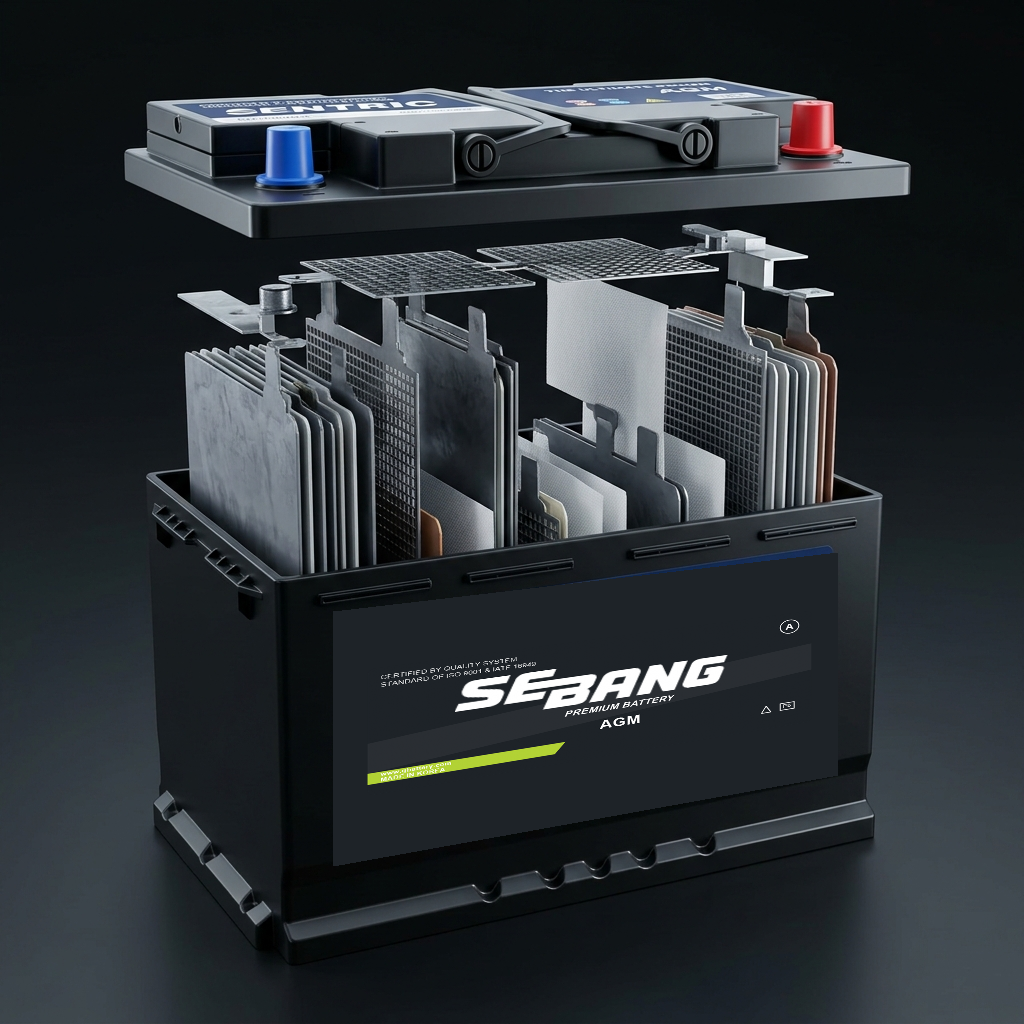
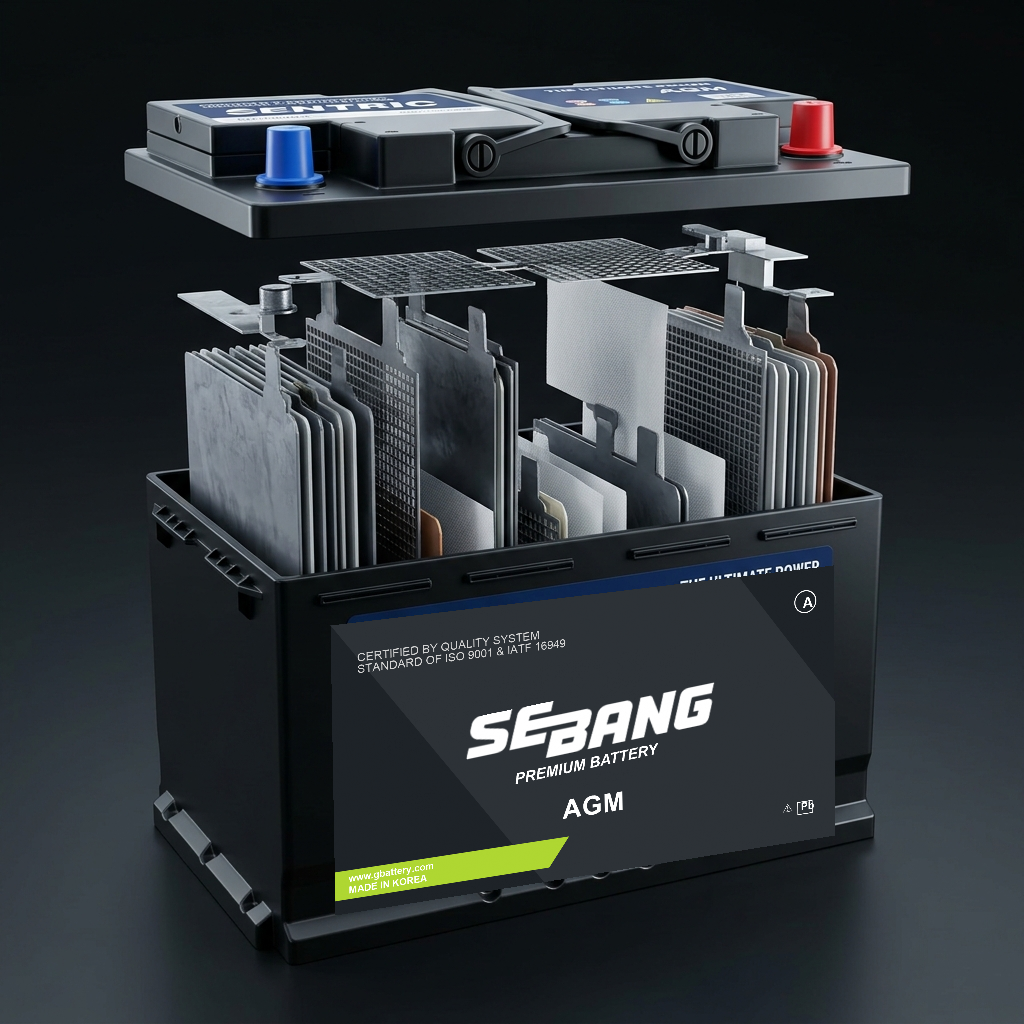
fix: replace inner-sticker coordinates with full-bleed giant recess coordinates and project new 1800x1000 full-bleed label to perfectly mask original elements

Changed region(s): [[0.3125, 0.5938, 0.8125, 0.9062], [0.4375, 0.5312, 0.8125, 0.5938]]

diff --git a/index.html b/index.html
@@ -6,7 +6,7 @@
     <title>Sentric | Her Yolculukta Güvenilir Güç</title>
     <meta name="description" content="Sentric, en zorlu koşullarda bile her yolculuğunuzda güvenilir, yüksek performanslı ve uzun ömürlü otomotiv aküleri sunar.">
     <link rel="stylesheet" href="style.css?v=20260620d">
-    <link rel="stylesheet" href="css-battery.css?v=11">
+    <link rel="stylesheet" href="css-battery.css?v=12">
     <link href="https://fonts.googleapis.com/css2?family=Inter:wght@300;400;600;800&family=Outfit:wght@400;600;800&display=swap" rel="stylesheet">
     <link rel="stylesheet" href="https://cdnjs.cloudflare.com/ajax/libs/font-awesome/6.4.0/css/all.min.css">
 </head>
@@ -98,7 +98,7 @@
                 </div>
                 <div class="about-image slide-in-right">
                     <div class="image-wrapper glassmorphism">
-                        <img src="assets/battery_sebang_final.png?v=11" alt="Seabang Premium" class="floating">
+                        <img src="assets/battery_sebang_final.png?v=12" alt="Seabang Premium" class="floating">
                     </div>
                 </div>
             </div>
@@ -120,7 +120,7 @@
                     <!-- Tüm Aküler -->
                     <a href="#products" class="sebang-card glassmorphism fade-in-up" draggable="false" style="text-decoration:none;">
                         <div class="sebang-img-wrapper">
-                            <img src="assets/battery_sebang_final.png?v=11" alt="Tüm Aküler" class="battery-base" style="width: 100%; height: auto;">
+                            <img src="assets/battery_sebang_final.png?v=12" alt="Tüm Aküler" class="battery-base" style="width: 100%; height: auto;">
                         </div>
                         <div class="sebang-card-content">
                             <div class="sebang-info">
@@ -134,7 +134,7 @@
                     <!-- Otomotiv -->
                     <a href="#products" class="sebang-card glassmorphism fade-in-up" draggable="false" style="transition-delay: 0.1s; text-decoration:none;">
                         <div class="sebang-img-wrapper">
-                            <img src="assets/battery_sebang_final.png?v=11" alt="Otomotiv Aküleri" class="battery-base" style="width: 100%; height: auto;">
+                            <img src="assets/battery_sebang_final.png?v=12" alt="Otomotiv Aküleri" class="battery-base" style="width: 100%; height: auto;">
                         </div>
                         <div class="sebang-card-content">
                             <div class="sebang-info">
@@ -148,7 +148,7 @@
                     <!-- Ticari -->
                     <a href="#products" class="sebang-card glassmorphism fade-in-up" draggable="false" style="transition-delay: 0.2s; text-decoration:none;">
                         <div class="sebang-img-wrapper">
-                            <img src="assets/battery_sebang_final.png?v=11" alt="Ticari Araç Aküleri" class="battery-base" style="width: 100%; height: auto;">
+                            <img src="assets/battery_sebang_final.png?v=12" alt="Ticari Araç Aküleri" class="battery-base" style="width: 100%; height: auto;">
                         </div>
                         <div class="sebang-card-content">
                             <div class="sebang-info">
@@ -162,7 +162,7 @@
                     <!-- Marin ve Karavan -->
                     <a href="#products" class="sebang-card glassmorphism fade-in-up" draggable="false" style="transition-delay: 0.3s; text-decoration:none;">
                         <div class="sebang-img-wrapper">
-                            <img src="assets/battery_sebang_final.png?v=11" alt="Marin ve Karavan Aküleri" class="battery-base" style="width: 100%; height: auto;">
+                            <img src="assets/battery_sebang_final.png?v=12" alt="Marin ve Karavan Aküleri" class="battery-base" style="width: 100%; height: auto;">
                         </div>
                         <div class="sebang-card-content">
                             <div class="sebang-info">
@@ -176,7 +176,7 @@
                     <!-- Bahçe ve Tarım -->
                     <a href="#products" class="sebang-card glassmorphism fade-in-up" draggable="false" style="transition-delay: 0.4s; text-decoration:none;">
                         <div class="sebang-img-wrapper">
-                            <img src="assets/battery_sebang_final.png?v=11" alt="Bahçe ve Tarım Aküleri" class="battery-base" style="width: 100%; height: auto;">
+                            <img src="assets/battery_sebang_final.png?v=12" alt="Bahçe ve Tarım Aküleri" class="battery-base" style="width: 100%; height: auto;">
                         </div>
                         <div class="sebang-card-content">
                             <div class="sebang-info">
@@ -190,7 +190,7 @@
                     <!-- Traksiyoner -->
                     <a href="#products" class="sebang-card glassmorphism fade-in-up" draggable="false" style="transition-delay: 0.5s; text-decoration:none;">
                         <div class="sebang-img-wrapper">
-                            <img src="assets/battery_sebang_final.png?v=11" alt="Traksiyoner Aküler" class="battery-base" style="width: 100%; height: auto;">
+                            <img src="assets/battery_sebang_final.png?v=12" alt="Traksiyoner Aküler" class="battery-base" style="width: 100%; height: auto;">
                         </div>
                         <div class="sebang-card-content">
                             <div class="sebang-info">
@@ -302,7 +302,7 @@
         <div class="container">
             <div class="features-wrapper">
                 <div class="features-image slide-in-left">
-                    <img src="assets/sebang_detailed_exploded_final.png?v=11" alt="Battery Internals">
+                    <img src="assets/sebang_detailed_exploded_final.png?v=12" alt="Battery Internals">
                 </div>
                 <div class="features-content slide-in-right">
                     <h4 class="section-subtitle">Kalitenin Anatomisi</h4>
